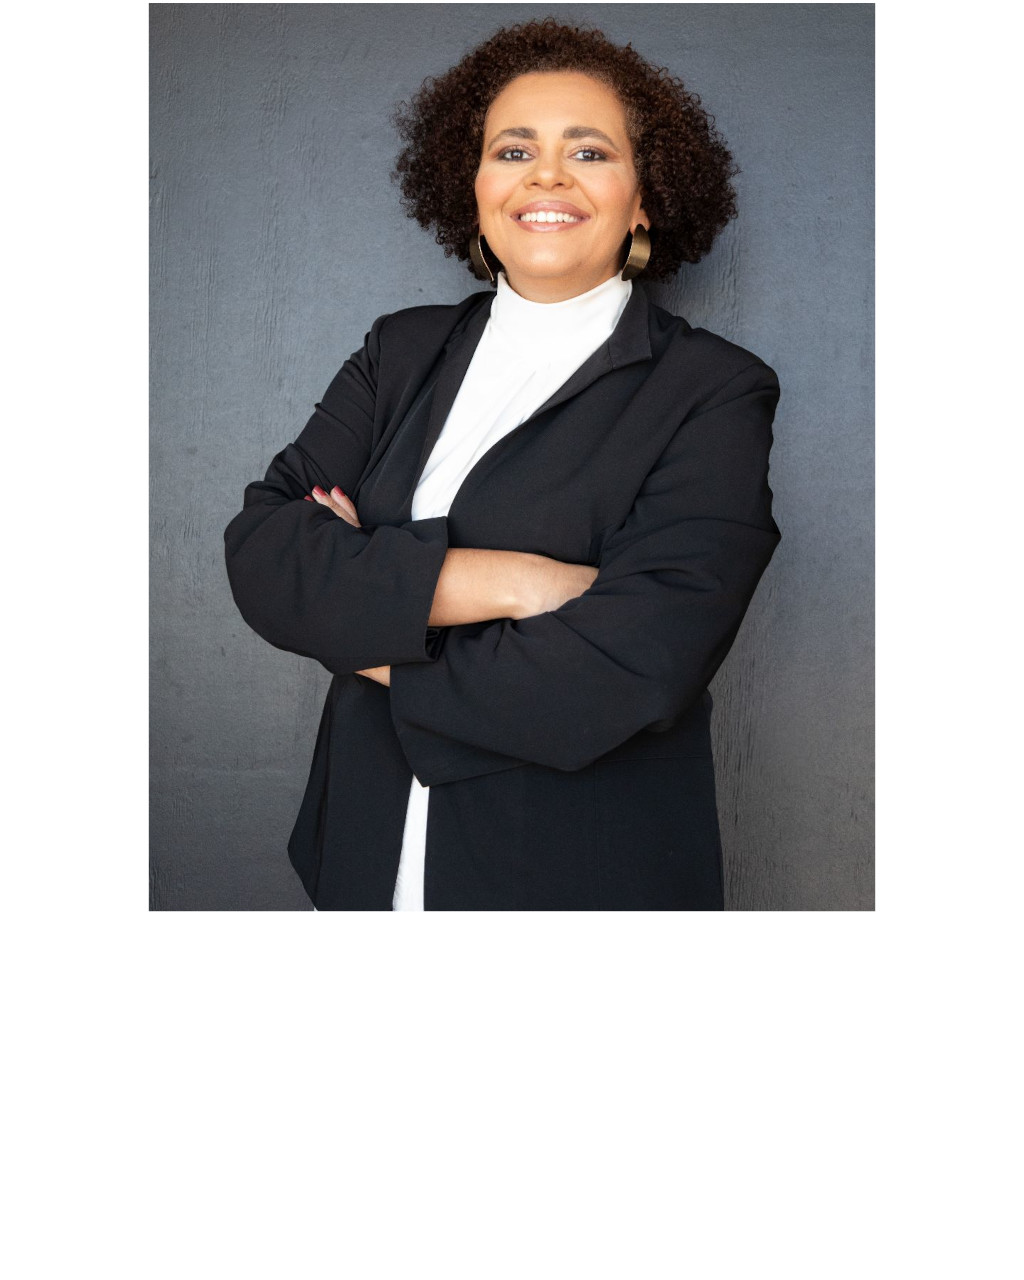
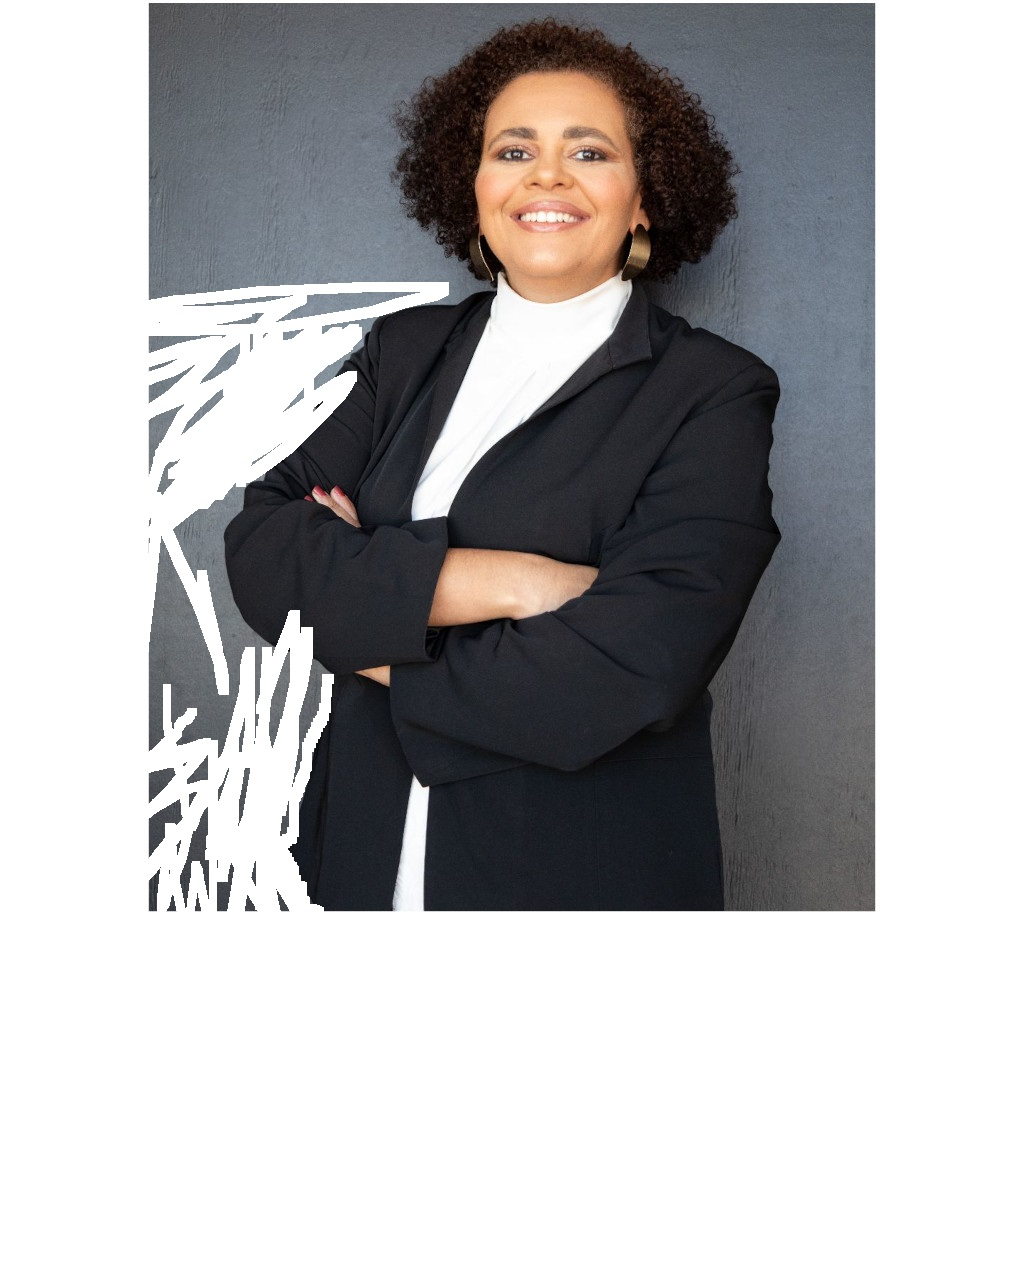
a

Changed region(s): [[0.125, 0.2188, 0.4375, 0.7188]]

diff --git a/projeto-mae/estilos/style.css b/projeto-mae/estilos/style.css
@@ -63,7 +63,8 @@ main {
 }
 
 div.home {
-  background-color: #8d7b6f;
+  background-image: linear-gradient(to bottom, #3d3d3d, #8d7b6f);
+  /*background-color: #8d7b6f;*/
   margin: 0px;
   padding: 0px;
   display: grid;
@@ -87,7 +88,7 @@ div.home {
   z-index: 0;
 }
 
- .main-home > h1 {
+.main-home > h1 {
   color: #ffffff;
   margin: 30px auto;
   margin-left: 30px;
@@ -149,7 +150,8 @@ div.imagem {
 }
 
 .experiencia {
-  background-color: rgb(99, 99, 99);
+  background-image: linear-gradient(to bottom, #8d7b6f, rgb(99, 99, 99));
+  /*background-color: rgb(99, 99, 99);*/
   background-size: contain;
   background-repeat: no-repeat;
   position: relative;
@@ -176,7 +178,6 @@ div.imagem {
   display: grid;
   grid-template-columns: 1fr 1fr 1fr;
   color: white;
-
 }
 
 .experiencia-container1 {
@@ -215,5 +216,23 @@ div.imagem {
   margin: 10px;
 }
 
+.experiencia-container1:hover {
+  border: 2px solid rgba(255, 255, 255, 0.658);
+  transform: translate(-3px, -3px);
+  box-shadow: 5px 5px 10px rgba(0, 0, 0, 0.651);
+  transition: transform 0.3s, border 0.1s;
+}
 
+.experiencia-container2:hover {
+  border: 2px solid rgba(255, 255, 255, 0.658);
+  transform: translate(-3px, -3px);
+  box-shadow: 5px 5px 10px rgba(0, 0, 0, 0.651);
+  transition: transform 0.3s, border 0.1s;
+}
 
+.experiencia-container3:hover {
+  border: 2px solid rgba(255, 255, 255, 0.658);
+  transform: translate(-3px, -3px);
+  box-shadow: 5px 5px 10px rgba(0, 0, 0, 0.651);
+  transition: transform 0.3s, border 0.1s;
+}

diff --git a/projeto-mae/index.html b/projeto-mae/index.html
@@ -41,7 +41,7 @@
                 </div>
             </div>
             <div class="imagem">
-                <img src="imagens/marronzin002p.JPG">
+                <img src="imagens/sou feliz agr.png">
             </div>
         </div>
 
